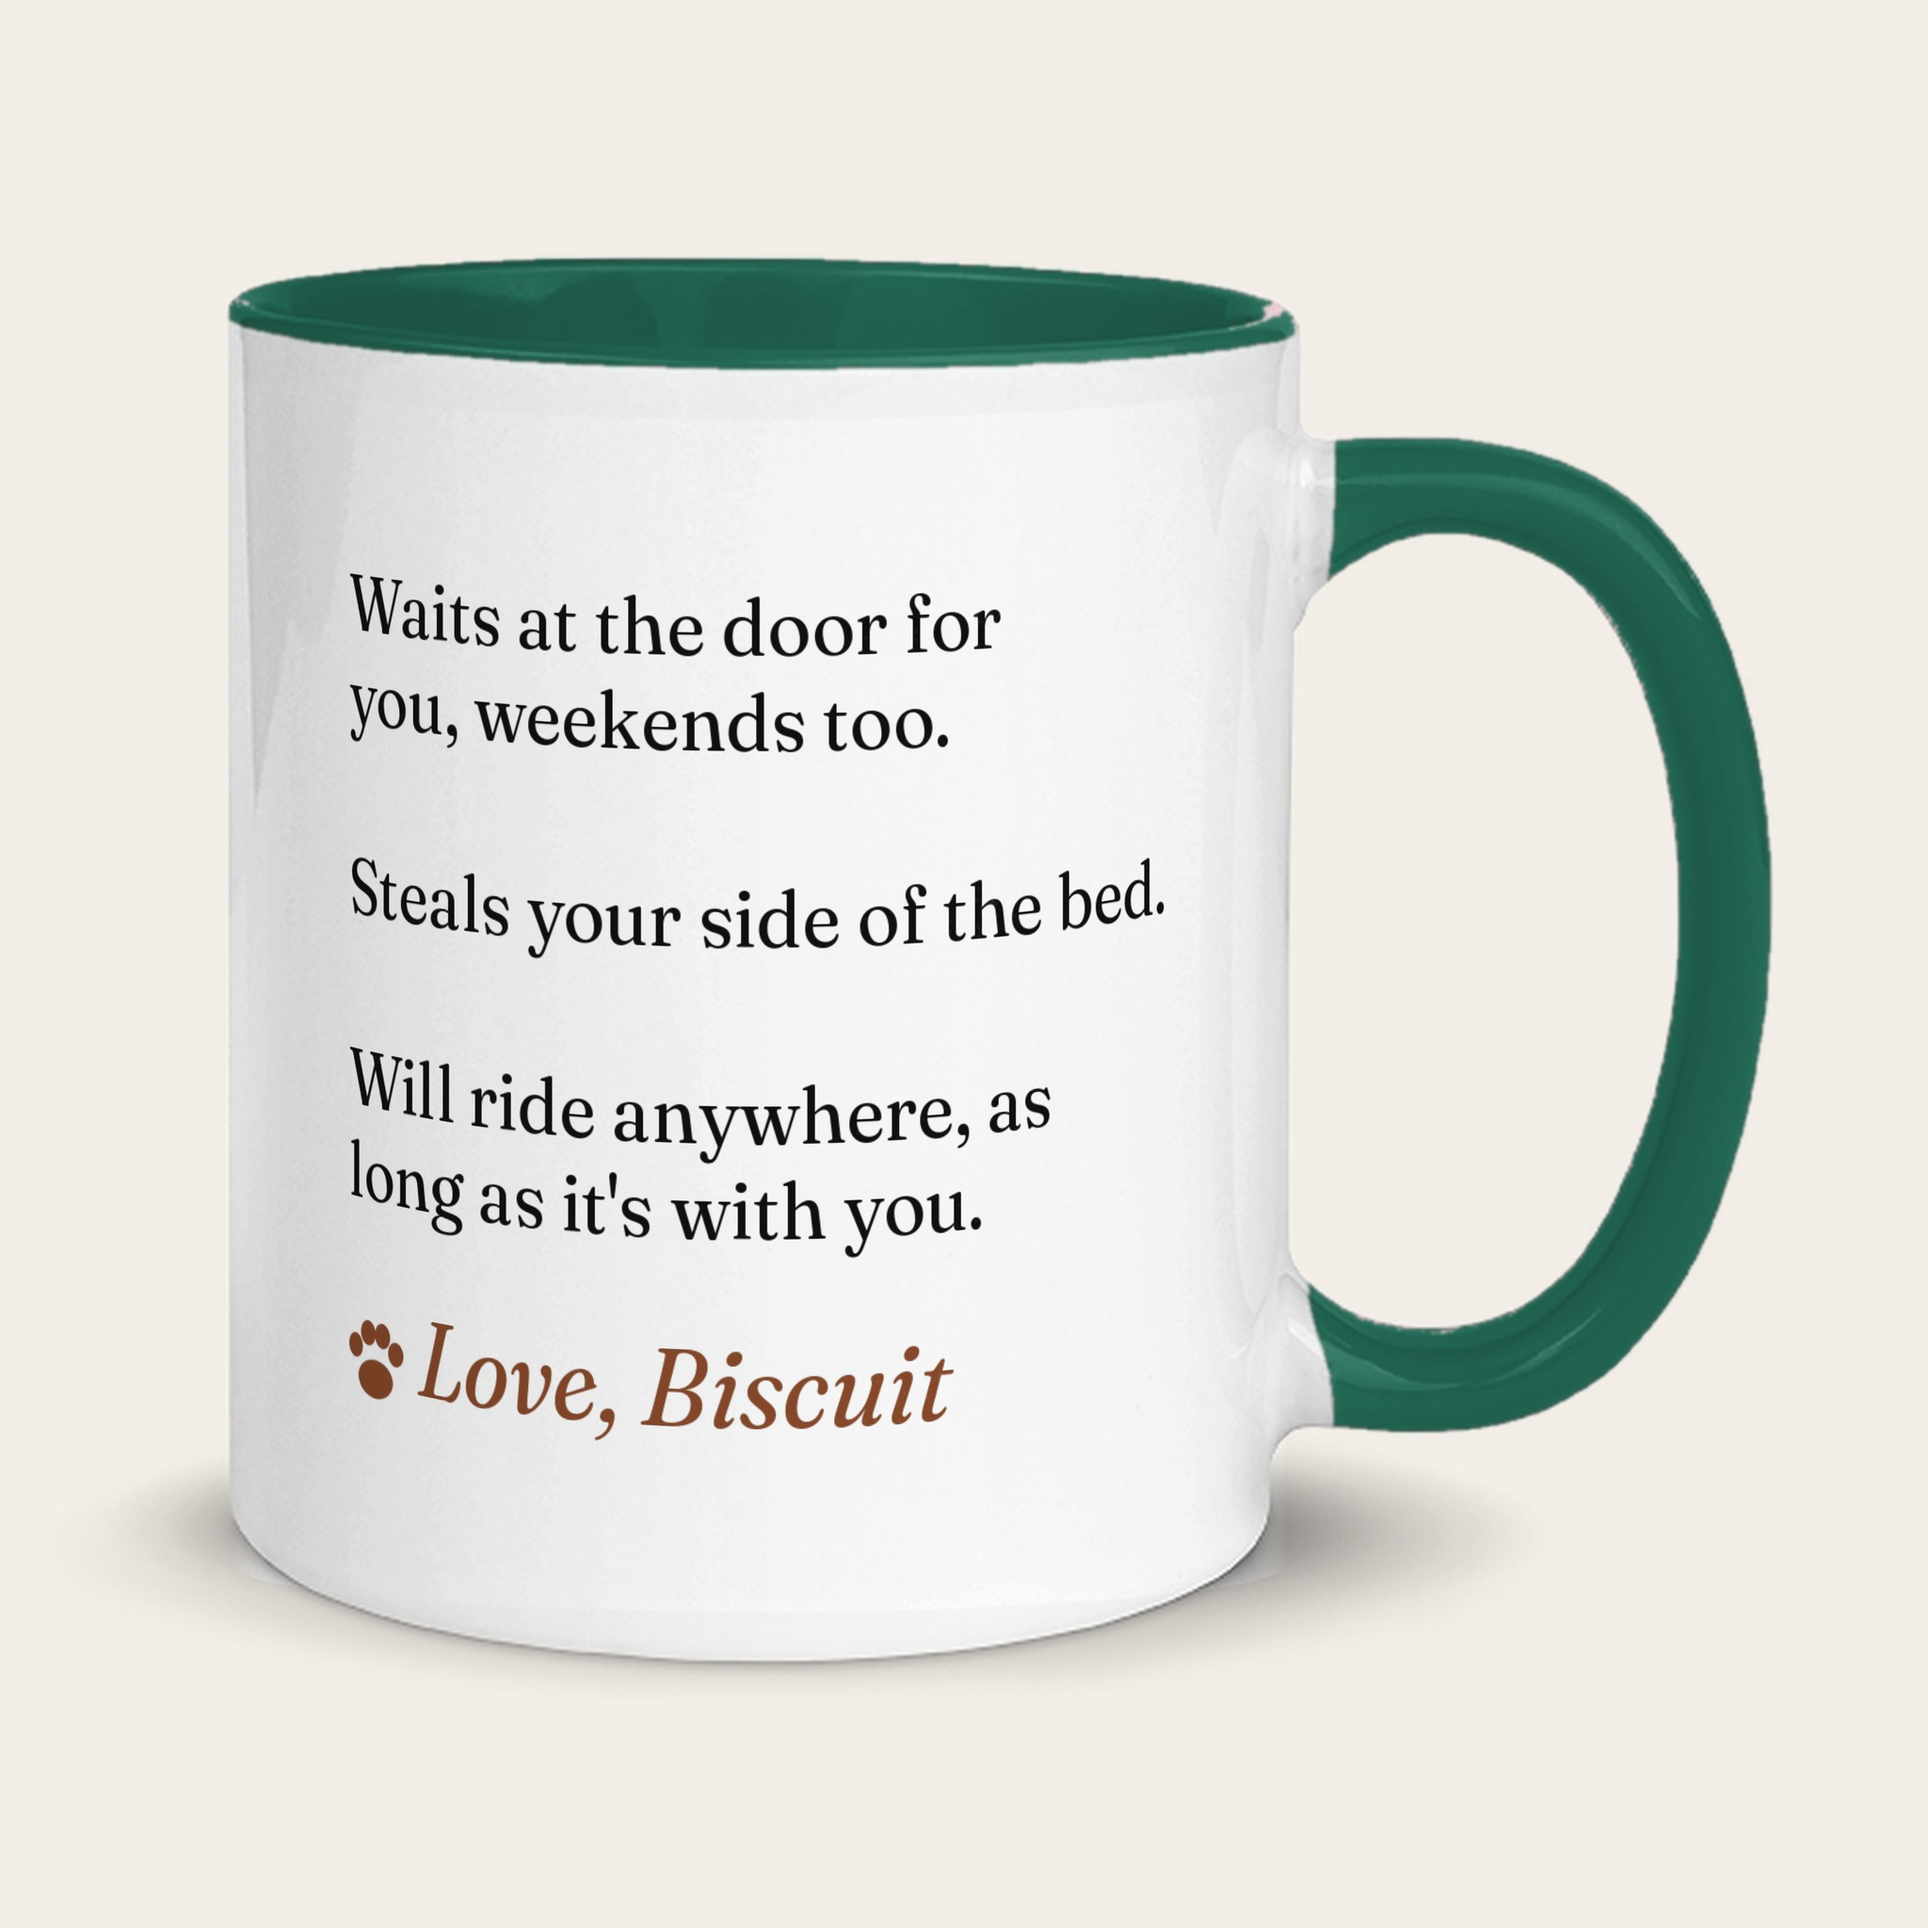
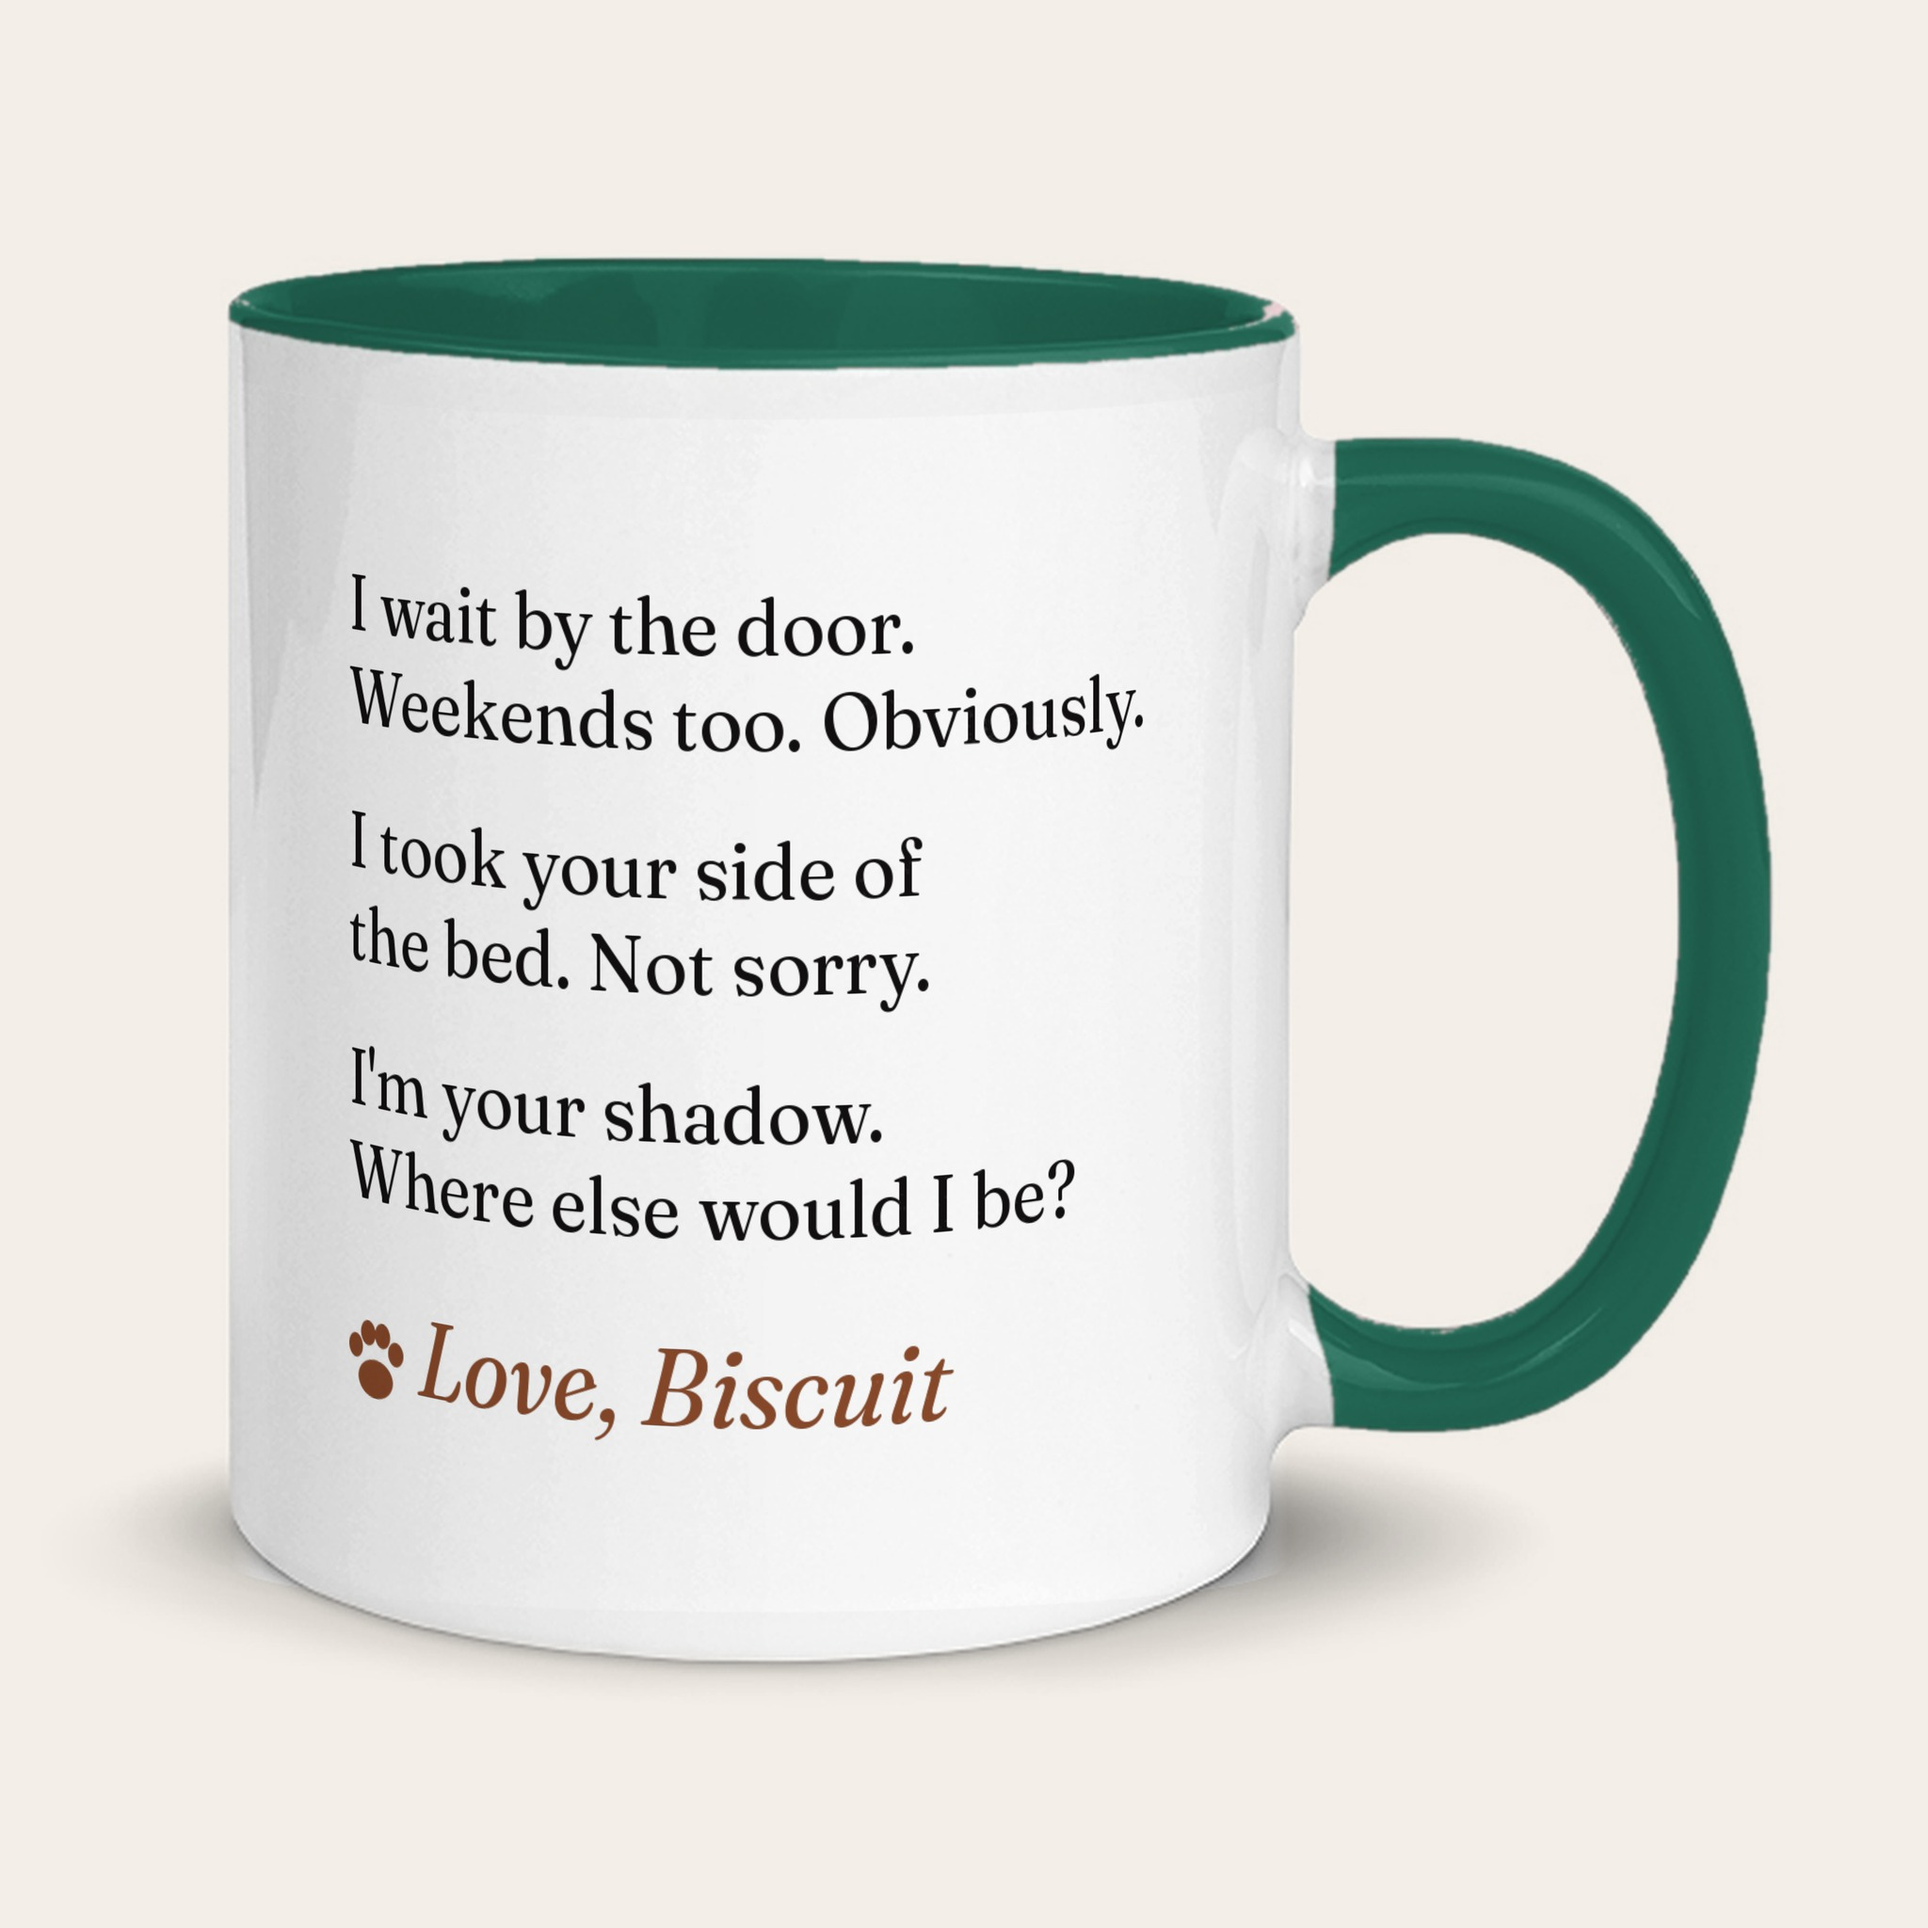
Product images in the dog's own voice: mug note faces and the other three gifts
Mug: print file rebuilt with the dog-voice lines (passes mug_qc), note
faces re-wrapped for all five colors; dog faces unchanged.
Blanket, framed print (four images) and ornament (two): only the Courier
lines replaced by tools/realphoto/reword_gift_images.py.

Claude-Session: https://claude.ai/code/session_01LJ8tgcfJQA7LELBwrj3DQ8

Changed region(s): [[0.1875, 0.2812, 0.5938, 0.4062], [0.1875, 0.5312, 0.5625, 0.6562], [0.1875, 0.4375, 0.5938, 0.5312]]

diff --git a/tools/realphoto/reword_gift_images.py b/tools/realphoto/reword_gift_images.py
@@ -1,0 +1,116 @@
+"""Rewords the Courier Prime lines on the blanket, framed print and ornament product images (Teeinblue's
+mockups of its long-name sample), keeping everything else in the photo as it is (21 Oct 2026).
+
+Krish (21 Oct): "re-render the product images in the dog's voice". For each image, the old lines are
+found as rows of dark ink inside the paper area; Courier Prime is fitted to each old row's width (the
+old words are known), so the new line gets the same size, centre and baseline. Each row is erased with
+the paper colour sampled just above and below it, column by column, then the new line is drawn in the
+old ink colour. Name, photo, signature and paw are untouched.
+
+  python3 tools/realphoto/reword_gift_images.py <in_dir> <out_dir>
+
+<in_dir> holds the current Shopify files, named by their Shopify file name.
+"""
+import os, sys
+import numpy as np
+from PIL import Image, ImageDraw, ImageFont
+
+FONT = os.path.join(os.path.dirname(__file__), '..', 'fonts', 'CourierPrime-Regular.ttf')
+
+OLD4 = ['Waits at the door for you, every single day.', 'Steals your side of the bed, then the duvet.',
+        "Will ride anywhere, as long as it's with you.", 'Your best friend, no contest.']
+NEW4 = ['I wait by the door. Weekends too. Obviously.', 'I took your side of the bed. Not sorry.',
+        'Our walks are the best part of my day.', "I'm your shadow. Where else would I be?"]
+OLD1 = ['Will ride anywhere, as', "long as it's with you."]
+NEW1 = ["I'm your shadow.", 'Where else would I be?']
+
+# file: (old rows, new rows, region of the paper as fractions x0, y0, x1, y1)
+JOBS = {
+    '6acf64c548c13.webp': (OLD4, NEW4, (0.18, 0.62, 0.82, 0.75)),   # blanket
+    '6acf69942e805.webp': (OLD4, NEW4, (0.25, 0.58, 0.75, 0.68)),   # framed print, white frame
+    '6acf6995181a1.webp': (OLD4, NEW4, (0.25, 0.58, 0.75, 0.68)),   # framed print, black frame
+    '6acf6986270d5.webp': (OLD4, NEW4, (0.25, 0.58, 0.75, 0.68)),   # framed print, red oak frame
+    '6acf69fb15466.webp': (OLD4, NEW4, (0.34, 0.545, 0.66, 0.616)),  # framed print, held
+    '6acf6aa696d50.webp': (OLD1, NEW1, (0.30, 0.57, 0.70, 0.65)),   # ornament
+    '6acf6aa660156.webp': (OLD1, NEW1, (0.34, 0.578, 0.66, 0.634)),  # ornament on the tree
+}
+
+
+def ink_rows(a, box):
+    x0, y0, x1, y1 = box
+    sub = a[y0:y1, x0:x1].astype(int)
+    lum = sub.mean(2)
+    sat = sub.max(2) - sub.min(2)
+    ink = (lum < 140) & (sat < 40)
+    rows = np.where(ink.sum(1) > 2)[0]
+    groups = []
+    for r in rows:
+        if groups and r - groups[-1][1] <= 4:
+            groups[-1][1] = r
+        else:
+            groups.append([r, r])
+    out = []
+    for g0, g1 in groups:
+        cols = np.where(ink[g0:g1 + 1].any(0))[0]
+        out.append((x0 + cols[0], y0 + g0, x0 + cols[-1], y0 + g1, ink[g0:g1 + 1]))
+    return out
+
+
+def fit(text, width):
+    lo, hi = 4.0, 200.0
+    for _ in range(40):
+        mid = (lo + hi) / 2
+        f = ImageFont.truetype(FONT, mid)
+        b = f.getbbox(text)
+        if b[2] - b[0] > width:
+            hi = mid
+        else:
+            lo = mid
+    return ImageFont.truetype(FONT, lo)
+
+
+def reword(path, old, new, frac, out):
+    im = Image.open(path).convert('RGB')
+    a = np.asarray(im)
+    H, W = a.shape[:2]
+    box = (int(frac[0] * W), int(frac[1] * H), int(frac[2] * W), int(frac[3] * H))
+    rows = ink_rows(a, box)
+    if len(rows) != len(old):
+        raise SystemExit(f'{os.path.basename(path)}: found {len(rows)} ink rows, expected {len(old)}')
+    b = a.copy()
+    plan = []
+    # Teeinblue sets every line in one size: fit each old row, then use the median for all
+    size = float(np.median([fit(o, r[2] - r[0] + 1).size for r, o in zip(rows, old)]))
+    f = ImageFont.truetype(FONT, size)
+    for (rx0, ry0, rx1, ry1, mask), o, n in zip(rows, old, new):
+        ob = f.getbbox(o)
+        # baseline: the old row's ink top sits where the fitted text's ink top would be
+        base = ry0 - ob[1]
+        cx = (rx0 + rx1) / 2
+        dark = a[ry0:ry1 + 1, rx0:rx1 + 1][mask[:, rx0 - box[0]:rx1 - box[0] + 1]]
+        ink = tuple(int(v) for v in np.median(dark, axis=0)) if len(dark) else (30, 30, 30)
+        plan.append((n, f, cx, base, ink))
+    # erase the whole block at once, so a row is never painted from its neighbour's ink
+    pad = max(4, (rows[0][3] - rows[0][1]) // 2)
+    top, bot = max(min(r[1] for r in rows) - pad, 0), min(max(r[3] for r in rows) + pad, H - 1)
+    x0, x1 = max(box[0], min(r[0] for r in rows) - pad * 2), min(box[2], max(r[2] for r in rows) + pad * 2)
+    above = np.median(a[max(top - 6, 0):top].astype(float), axis=0)
+    below = np.median(a[bot + 1:min(bot + 7, H)].astype(float), axis=0)
+    for y in range(top, bot + 1):
+        t = (y - top) / max(bot - top, 1)
+        b[y, x0:x1] = (above[x0:x1] * (1 - t) + below[x0:x1] * t).astype(np.uint8)
+    out_im = Image.fromarray(b)
+    d = ImageDraw.Draw(out_im)
+    for n, f, cx, base, ink in plan:
+        nb = f.getbbox(n)
+        d.text((cx - (nb[0] + nb[2]) / 2, base), n, font=f, fill=ink)
+    out_im.save(out, quality=94)
+    return [(p[0], round(p[1].size, 1)) for p in plan]
+
+
+if __name__ == '__main__':
+    src, dst = sys.argv[1], sys.argv[2]
+    os.makedirs(dst, exist_ok=True)
+    for name, (old, new, frac) in JOBS.items():
+        out = os.path.join(dst, os.path.splitext(name)[0] + '.jpg')
+        print(name, reword(os.path.join(src, name), old, new, frac, out))

diff --git a/tools/realphoto/build_shopify_mug_inputs.py b/tools/realphoto/build_shopify_mug_inputs.py
@@ -21,7 +21,9 @@ OUT = os.path.join(SRC, 'shopify-images')
 sys.path.insert(0, os.path.join(ROOT, 'tools', 'qc'))
 import mug_qc as q  # noqa: E402
 
-LINES = ['Waits at the door for\nyou, weekends too.', 'Steals your side of the bed.', "Will ride anywhere, as\nlong as it's with you."]
+# the dog's own voice (Krish, 20 Oct): the chip lines for "waits at the door, weekends too", "their side
+# of the bed" and "their shadow", broken where hs3.js's evenBreak breaks them
+LINES = ['I wait by the door.\nWeekends too. Obviously.', 'I took your side of\nthe bed. Not sorry.', "I'm your shadow.\nWhere else would I be?"]
 SIGNED = 'Love, Biscuit'
 INK, CHESTNUT = (18, 16, 16, 255), (138, 74, 43, 255)  # #121010 and #8A4A2B, as hs3.js draws the note
 

diff --git a/design/shopify-images/gifts-2026-10-21/README.md b/design/shopify-images/gifts-2026-10-21/README.md
@@ -1,0 +1,20 @@
+# Product images in the dog's own voice (21 Oct 2026)
+
+Krish (21 Oct): "re-render the product images in the dog's voice".
+
+- **The Morning Mug:** the note faces are re-rendered the approved way:
+  - `tools/realphoto/build_shopify_mug_inputs.py` rebuilds the print file with the dog-voice lines. It passes `tools/qc/mug_qc.py`.
+  - `tools/realphoto/shopify_mug_images.py` wraps it onto the mug.
+  - `recolor_mug.py` makes the four other colors.
+
+  The files are in `design/teeinblue/mug-v3/shopify-images/`. The dog faces come out unchanged, byte for byte.
+- **Blanket, framed print, ornament (this folder):** Teeinblue's mockups of its long-name sample, with only the Courier Prime lines replaced (`tools/realphoto/reword_gift_images.py`). Courier Prime is fitted to each old row, so the new lines keep the same size, center and baseline. The name, photo, signature and paw are untouched.
+
+| File | Product image |
+|---|---|
+| `the-couch-blanket.jpg` | The Couch Blanket |
+| `the-framed-print-held.jpg` | The Framed Print, first image |
+| `the-framed-print-white.jpg`, `-black.jpg`, `-red-oak.jpg` | The Framed Print, each frame's variant image |
+| `the-tree-ornament.jpg`, `the-tree-ornament-tree.jpg` | The Tree Ornament |
+
+Lines (V3 4.2, the dog's own voice): "I wait by the door. Weekends too. Obviously." / "I took your side of the bed. Not sorry." / "Our walks are the best part of my day." / "I'm your shadow. Where else would I be?". The ornament carries the last one.
